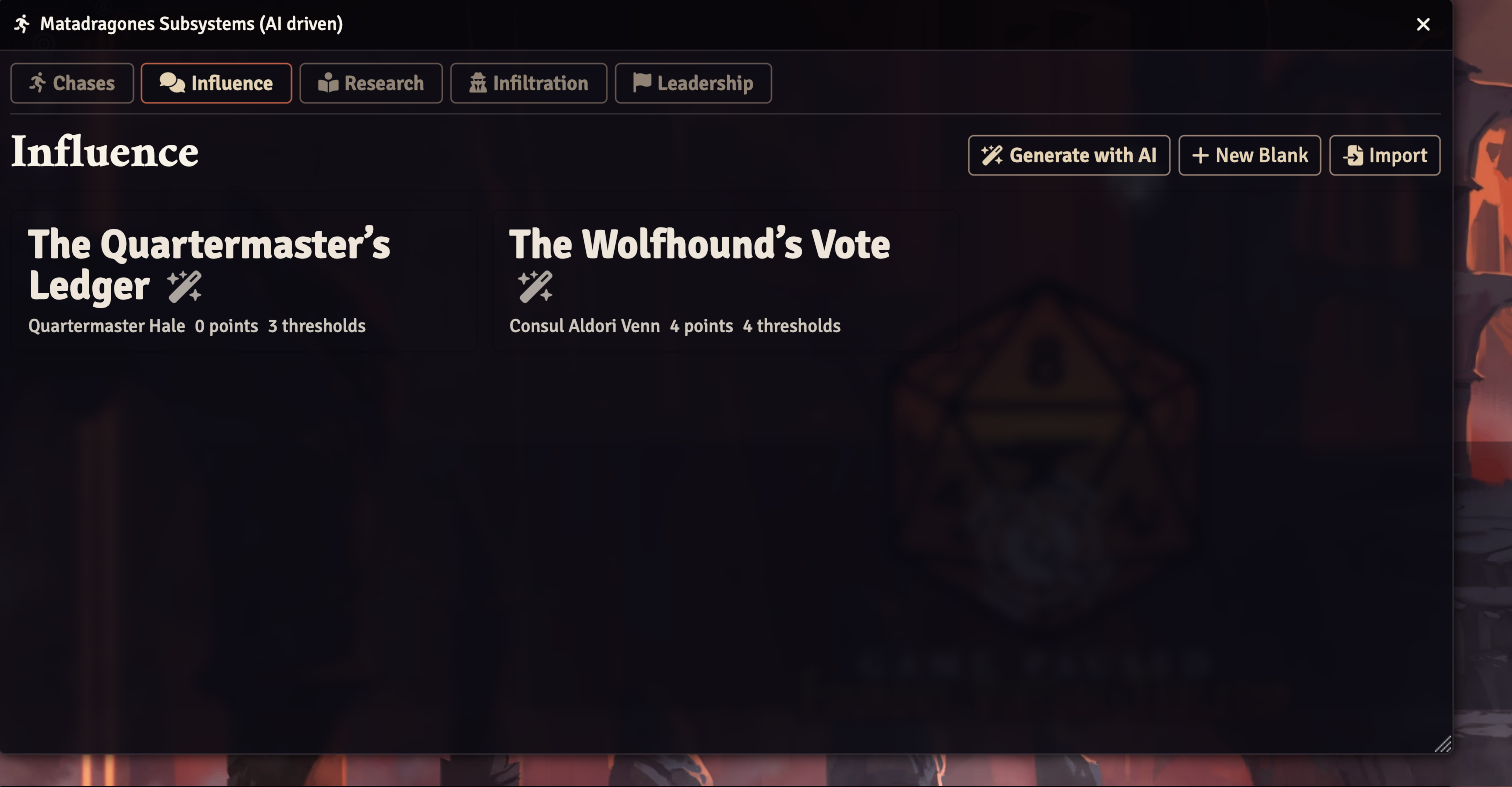
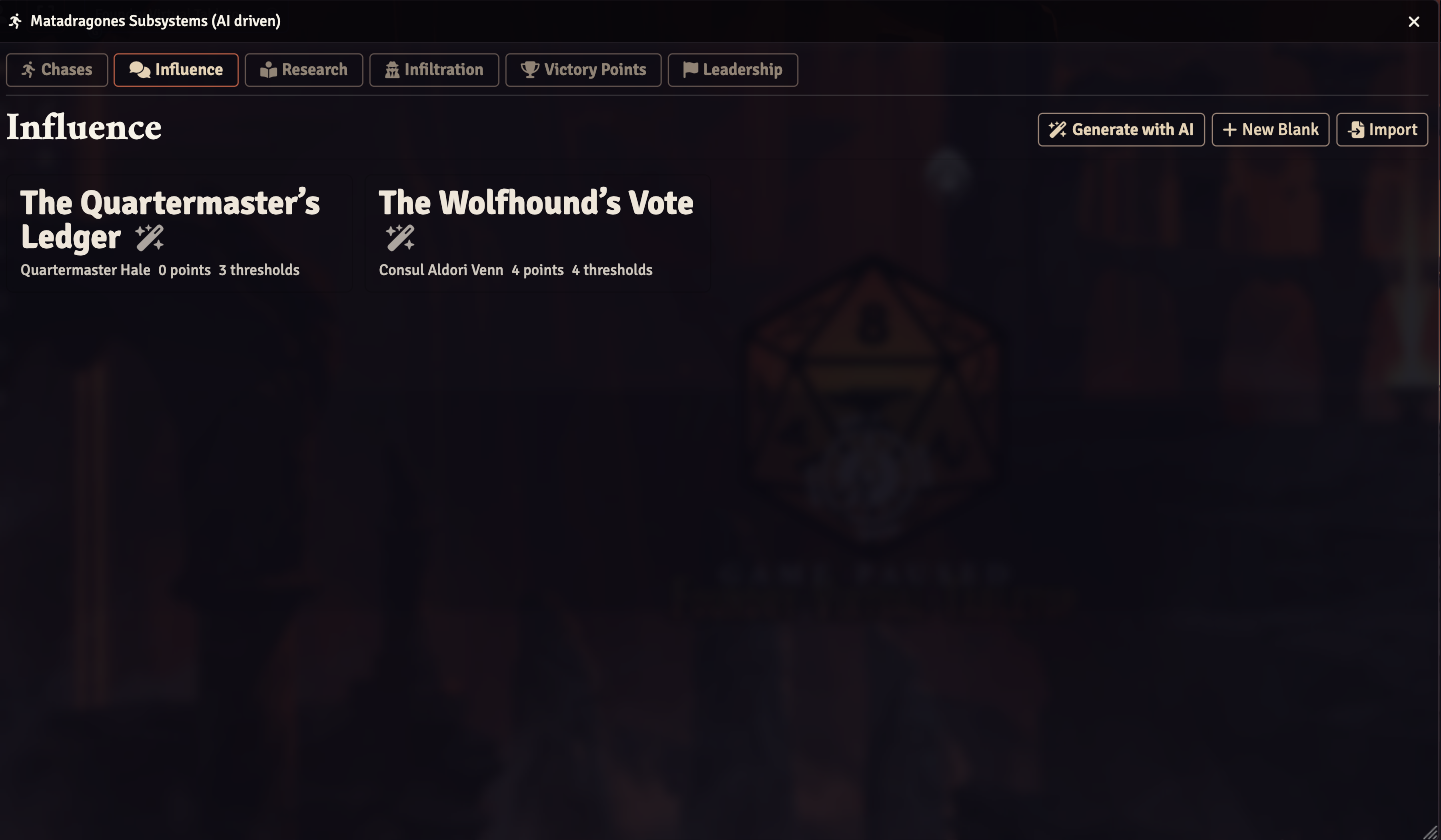
Say there are six, and cut 1.1.0
The docs still described five subsystems, and two claims had gone stale
enough to mislead: Known limits said "Only the Chase subsystem is
implemented", and the test section said "Three harnesses" where there are
now eleven. Both removed rather than softened.

Adds the Victory Points section — the two structures and why the difference
matters, the scale coming from the published table, and the GM keeping the
verdict — plus the architecture map and the suite list.

Screenshots re-shot on the local test world: the tab strip showed five, and
the new section needed images that did not exist yet.

Changed region(s): [[0.0, 0.0, 0.5933, 0.4269], [0.0, 0.0, 1.0, 1.0]]

diff --git a/README.md b/README.md
@@ -1,6 +1,6 @@
 # Matadragones Subsystems (AI driven)
 
-**Run PF2e's five subsystems in Foundry without writing them first.** Describe
+**Run PF2e's six subsystems in Foundry without writing them first.** Describe
 the situation in a sentence; get a playable encounter back — obstacles, skill
 approaches, DCs, thresholds and clickable inline checks.
 
@@ -20,10 +20,11 @@ Built at our own table by [**Matadragones**](https://matadragones.org) —
 excellent tracker, but every obstacle, DC and skill option has to be typed in
 first. This module keeps the tracker and replaces the typing.
 
-**Chases, Influence, Research, Infiltration and Leadership** are all here, and
-they all work the same way, so learning one teaches you the rest.
+**Chases, Influence, Research, Infiltration, Leadership and Victory Points**
+are all here, and they all work the same way, so learning one teaches you the
+rest.
 
-![Five subsystems, one window](docs/images/subsystem-tabs.png)
+![Six subsystems, one window](docs/images/subsystem-tabs.png)
 
 ### What it will not do
 
@@ -678,6 +679,56 @@ other four.
 No rounds and no point awards, both waived explicitly in the parity audit with
 reasons, because inventing them would misrepresent the subsystem.
 
+## Victory Points
+
+![A Victory Point contest, with its scale drawn from the published table](docs/images/victory-contest.png)
+
+The generic subsystem the other five are specialisations of.
+[Rules](https://2e.aonprd.com/Rules.aspx?ID=1250). Chases, Influence, Research
+and Infiltration are all Victory Point structures with their own vocabulary
+bolted on; this tab is the toolkit underneath, for the contest at your table
+that the published four do not cover — holding a bridge, arguing a case before a
+magistrate, keeping a ritual stable while something claws at it.
+
+### Two structures, and the difference matters
+
+**Accumulating** climbs from zero to the endpoint: the party is earning
+something. Critical success 2, success 1, failure 0, critical failure −1.
+
+**Diminishing** starts *at* the endpoint and falls: the party is defending
+something, and reaching zero is the bad ending rather than merely not winning
+yet. Critical success 1, success 0, failure −1, critical failure −2.
+
+The published rules make a diminishing critical success worth a point only *if
+regaining ground is possible*, and otherwise treat it as a success. For cracked
+eggs or a burning building it is not, so **Recovery possible** is a switch on
+the event rather than an assumption.
+
+### The scale is the published table
+
+You pick a scale — quick, long, session, sideline or forefront — and the
+endpoint and threshold positions come from Table 3-1, not from the model. A
+forefront contest is 50 points with thresholds at 10, 20, 30 and 40. The model
+writes what each threshold *means*; it never picks the numbers.
+
+### Checks that open up
+
+![Ways to earn points; the Thievery approach stays hidden until the party earns it](docs/images/victory-checks.png)
+
+Any check can be marked as one the party only gets after working something out.
+Those start hidden and pay more when they land, which is what the rules ask for.
+A check can also carry a point total it reveals itself at, so a long contest
+opens up as it goes.
+
+### The GM calls it
+
+The point total says where the track stands. It does not say how the scene
+ended, so the module never declares a winner. When the track fills or empties
+you are told that fact, once, and three buttons in the status bar — **won**,
+**undecided**, **lost** — leave the verdict where it belongs. A party can hit
+the endpoint and still have lost the thing that mattered, or run the clock out
+defending a bridge and have held it long enough.
+
 ## Bringing your own agent
 
 You do not have to spend an OpenAI call here. Every generate dialog has **Save
@@ -782,19 +833,22 @@ scripts/
   ai/research.js               research schema, prompt, mapping
   ai/infiltration.js           infiltration schema, prompt, mapping
   ai/leadership.js             leadership schema, prompt, mapping
+  ai/victory.js                victory schema, prompt, mapping
   exchange.js                  briefs out, agent payloads in, and the verifier
   data/influence.js            Influence / Influences DataModels
   data/research.js             Research / Researches DataModels
   data/infiltration.js         Infiltration / Infiltrations DataModels
   data/leadership.js           Leadership / Leaderships DataModels
+  data/victory.js              Victory / Victories DataModels
   subsystems.js                registry: storage + shared GM operations
   apps/subsystem-view.js       the GM/player window
-  apps/generate-chase-dialog.js the generation form
+  apps/generate-chase-dialog.js the generation form (one per subsystem)
 ```
 
-All state lives in one world setting (`chases`) holding an id-keyed map. Adding a
-subsystem means a new DataModel, a new setting in the same shape, a schema +
-prompt under `ai/`, and a branch in the view.
+Each subsystem's state lives in its own world setting holding an id-keyed map.
+Adding one means a new DataModel, a new setting in the same shape, a schema +
+prompt under `ai/`, an entry in the `subsystems.js` registry — which is what
+makes the shared GM operations work for it — and a branch in the view.
 
 ## Tests
 
@@ -803,19 +857,35 @@ npm install
 npm test
 ```
 
-Three harnesses, no Foundry required — they stub the globals:
+Eleven suites, no Foundry required — `test/harness.mjs` stubs the globals:
 
-- `check-logic.mjs` — DC maths against the published table, HTML escaping,
-  inline-check composition, model-payload mapping, and the Structured Outputs
-  strict-mode invariants (`additionalProperties: false`, every property required)
+- `check-imports.mjs` — every named import resolves to a real export, and every
+  registered action has a handler. A dangling import breaks the whole ES module
+  graph at load time and Foundry reports only an inactive module with no cause
+- `check-helpers.mjs` — DC maths against the published table, the party-scaled
+  formulas, every degree table, and all six stores
+- `check-mappers.mjs` — every model answer mapped to stored data: no DC comes
+  from anywhere but the table, GM prose survives verbatim, provenance recorded
+- `check-registry.mjs` — the registry, how a button resolves to an event, the
+  export/import round trip, and every socket relay including refusal of
+  malformed messages
+- `check-migrate.mjs` — schema migration and the API-key migration, plus what
+  the GM must supply before a generate call
+- `check-logic.mjs` — HTML escaping, inline-check composition, socket targeting,
+  and the Structured Outputs strict-mode invariants
+  (`additionalProperties: false`, every property required)
+- `check-rolls.mjs` — rolling and what a roll does to the track, driven through
+  the real entry points so the message a player sends is the one the GM receives
+- `check-exchange.mjs` — the import verifier, asserting the *diagnostics* rather
+  than just accept/reject
 - `check-openai.mjs` — request shape, model override precedence, and every error
   path (missing key, HTTP error, refusal, malformed JSON, abort)
-- `check-templates.mjs` — compiles and renders every template, asserts the player
-  view omits GM controls and GM notes, and checks that every action button
-  carries the ids its handler reads (a button with a missing id is a silent no-op)
-- `check-imports.mjs` — verifies every named import resolves to a real export. A
-  dangling import breaks the whole ES module graph at load time, and Foundry
-  reports only an inactive module with no obvious cause
+- `check-templates.mjs` — compiles and renders every template, asserts the
+  player view omits GM controls and GM notes, and checks every action button
+  carries the ids its handler reads
+- `check-parity.mjs` — the adversarial audit: asserts all 35 capabilities exist
+  in all six subsystems and prints the matrix, so a gap is visible rather than
+  inferred. A subsystem that genuinely cannot have one must say why
 
 ## Known limits
 
@@ -826,7 +896,6 @@ Three harnesses, no Foundry required — they stub the globals:
   settings form submits an empty number input as `NaN`, which no nullable
   `NumberField` can validate, so a blank field would break the whole sheet.
   Blank means "omit the parameter".
-- Only the Chase subsystem is implemented.
 
 ## Who made this
 

diff --git a/CLAUDE.md b/CLAUDE.md
@@ -1,8 +1,8 @@
 # Matadragones Subsystems (AI driven)
 
 A Foundry VTT module that runs PF2e subsystems with content generated by OpenAI.
-Five subsystems are implemented: Chases, Influence, Research, Infiltration and
-Leadership.
+Six subsystems are implemented: Chases, Influence, Research, Infiltration,
+Leadership and Victory Points.
 
 Not every subsystem has every mechanic. Leadership has no point track and no
 rounds, and saying so in the parity audit's `waived` map is the correct answer —
@@ -30,8 +30,9 @@ If you find yourself writing a second copy of something, promote it instead.
 set of habits on one tab and another on the next. Every subsystem gets the same
 header — preview as player, push to players, hide, export, rename, delete — and
 the same status-bar shape: round counter, the number that matters, then actions
-including Start/Pause and Next Round. `check-templates.mjs` asserts this; if you
-add a subsystem, add it to that assertion.
+including Start/Pause and Next Round. `check-parity.mjs` asserts this for all
+six; `check-templates.mjs` asserts it again for the four it predates. Add a new
+subsystem to `check-parity.mjs` — that is the one that covers everything.
 
 Shared buttons must carry `data-subsystem` and `data-event-id`. Subsystem-specific
 ones may use their own attributes.
@@ -39,7 +40,7 @@ ones may use their own attributes.
 Every section explains itself. Each panel heading carries an **ⓘ** with a
 tooltip saying what that section is and how it scores — a GM meeting "soft
 spot", "chase point" or "source cap" for the first time should not have to go
-and read the rulebook. `check-templates.mjs` asserts every `<h3>` in every
+and read the rulebook. `check-parity.mjs` asserts every `<h3>` in every
 subsystem has one.
 
 Hover-only is for *adjustment* controls (steppers), never for the only route to
@@ -81,13 +82,28 @@ These exist because getting them wrong produced real bugs:
 
 ## Testing
 
-`npm test` — no Foundry needed, the harnesses stub the globals.
+`npm test` — no Foundry needed, `test/harness.mjs` stubs the globals. Use it
+rather than stubbing them again: suites that rolled their own drifted, and a
+test that fails because its own stub is wrong teaches nothing.
 
 - `check-imports.mjs` — **runs first, and for good reason.** A dangling import
   breaks the entire ES module graph and Foundry reports only an inactive module
   with no error. It also checks every registered ApplicationV2 action has a
   handler; a registered-but-undefined private method is a SyntaxError in the
   class body, with the same silent symptom.
+- `check-helpers.mjs` — the published maths: DC table, party-scaled formulas,
+  every degree table, the scale table, and all six stores.
+- `check-mappers.mjs` — every `to*Data`. Three promises per subsystem: every DC
+  is the base plus a published adjustment, GM prose survives verbatim, and
+  provenance is recorded. Plus strict-mode over every schema, and that no schema
+  field anywhere lets a model write a DC.
+- `check-registry.mjs` — the seams. Registry shape, how a button's dataset
+  resolves to an event, export/import round-trip, and every socket relay:
+  emitter against predicate, malformed messages refused, no two relays claiming
+  one message.
+- `check-rolls.mjs` — rolling and what a roll does. Drives the real entry points
+  as a player so the message that reaches the predicate is the one the caller
+  built, then applies results for all six.
 - `check-logic.mjs` — DC and goal maths, prompt/route text, socket targeting,
   Structured Outputs strict-mode invariants.
 - `check-openai.mjs` — request shape and every error path.
@@ -102,6 +118,14 @@ These exist because getting them wrong produced real bugs:
   genuinely cannot have one must declare a `waived` reason; silence counts as a
   gap. Fixtures for all four live in `test/fixtures.mjs` — one copy, because a
   fixture that drifts from the view makes every suite lie.
+
+**A green suite proves nothing on its own.** Before trusting a new test, break
+the code it covers and watch it fail. Doing that found assertions that could
+never fail — one checked that an approach was revealed, against a fixture that
+seeded it already revealed — and, more often, sabotages of mine that had
+silently patched the wrong copy of a line shared between subsystems. Scope the
+edit to the function under test, and treat a mutation that changes nothing as a
+question about the test, not proof of the code.
 
 Do **not** replace a region of `subsystem-view.js` by slicing between two
 anchors. It has silently swallowed neighbouring private methods four times now.
@@ -171,8 +195,10 @@ Then relaunch the world from the setup screen. Never commit `.local/`.
 4. `scripts/ai/<name>.js` — strict schema, prompt, and payload→stored mapping.
    Collect from the GM whatever the model cannot invent.
 5. A generate dialog and a view partial.
-6. Add a tab, add a case to `SubsystemView#select`, and add the subsystem to the
-   parity assertion in `check-templates.mjs`.
+6. Add a tab, add a case to `SubsystemView#select`, add a context to
+   `test/fixtures.mjs`, and add the subsystem to `SUBSYSTEMS` in
+   `check-parity.mjs` — that is where the capability matrix and the
+   nothing-leaks-to-players assertion live.
 
 Step 5 has a trap worth naming: `SubsystemView.open()` routes an event id to the
 right selection field. That routing is runtime, not template, so the parity test

diff --git a/CHANGELOG.md b/CHANGELOG.md
@@ -1,5 +1,54 @@
 # Changelog
 
+## 1.1.0
+
+### Victory Points
+
+The generic subsystem the other five are specialisations of, for the contest at
+your table the published four do not cover. Both published structures:
+accumulating rolls climbing to an endpoint, and diminishing rolls that start at
+the endpoint and fall, where running out is the bad ending rather than merely
+not winning yet.
+
+The scale comes from the published table — a forefront contest is 50 points with
+thresholds at 10, 20, 30 and 40 — so the model writes what each threshold means
+and never picks a number. Checks can be marked as ones the party earns by
+working something out; those start hidden and pay more, as the rules ask.
+
+The module never declares a winner. When the track fills or empties it says so,
+once, and the GM calls it won, lost or undecided. The number says where the
+track stands; it does not say how the scene ended.
+
+### Fixed
+
+- The GM's award button credited backwards in a diminishing contest: awarding a
+  point docked the character it was meant to reward. The award now lives beside
+  its three siblings in `rolls.js` rather than inline in the view, which is how
+  it drifted in the first place.
+- Stepping the influence total past a concession revealed it without telling
+  anyone. The reveal loop had three copies and one had lost its announcements;
+  there is one copy now.
+- `loreSlug('')` produced a bare `-lore`, and an unset Victory event reported
+  its track as already finished.
+- Imported Victory files got no playability checks at all — the subsystem was
+  added after the verifier and nobody extended it. A file whose checks all
+  need groundwork (so the contest opens empty), whose thresholds do not match
+  its scale, or whose events fire past the endpoint is now diagnosed with the
+  path and a sentence.
+- Socket messages carrying `kind`, and `objectiveId` on infiltration obstacles,
+  reached their handlers unvalidated.
+
+### Internal
+
+The seven socket predicates were the same five lines with different id names,
+and the two that used the shared helper had already drifted from the five that
+did not. One shape now.
+
+Test coverage went from 67 to 172 of the module's exported functions, across
+eleven suites and 986 assertions. Every new assertion was checked by breaking
+the code it covers and watching it fail — which is how the award bug above was
+found, along with two older assertions that could never have failed.
+
 ## 1.0.1
 
 Generated artwork was invisible. Add art would run, store the image and hide
